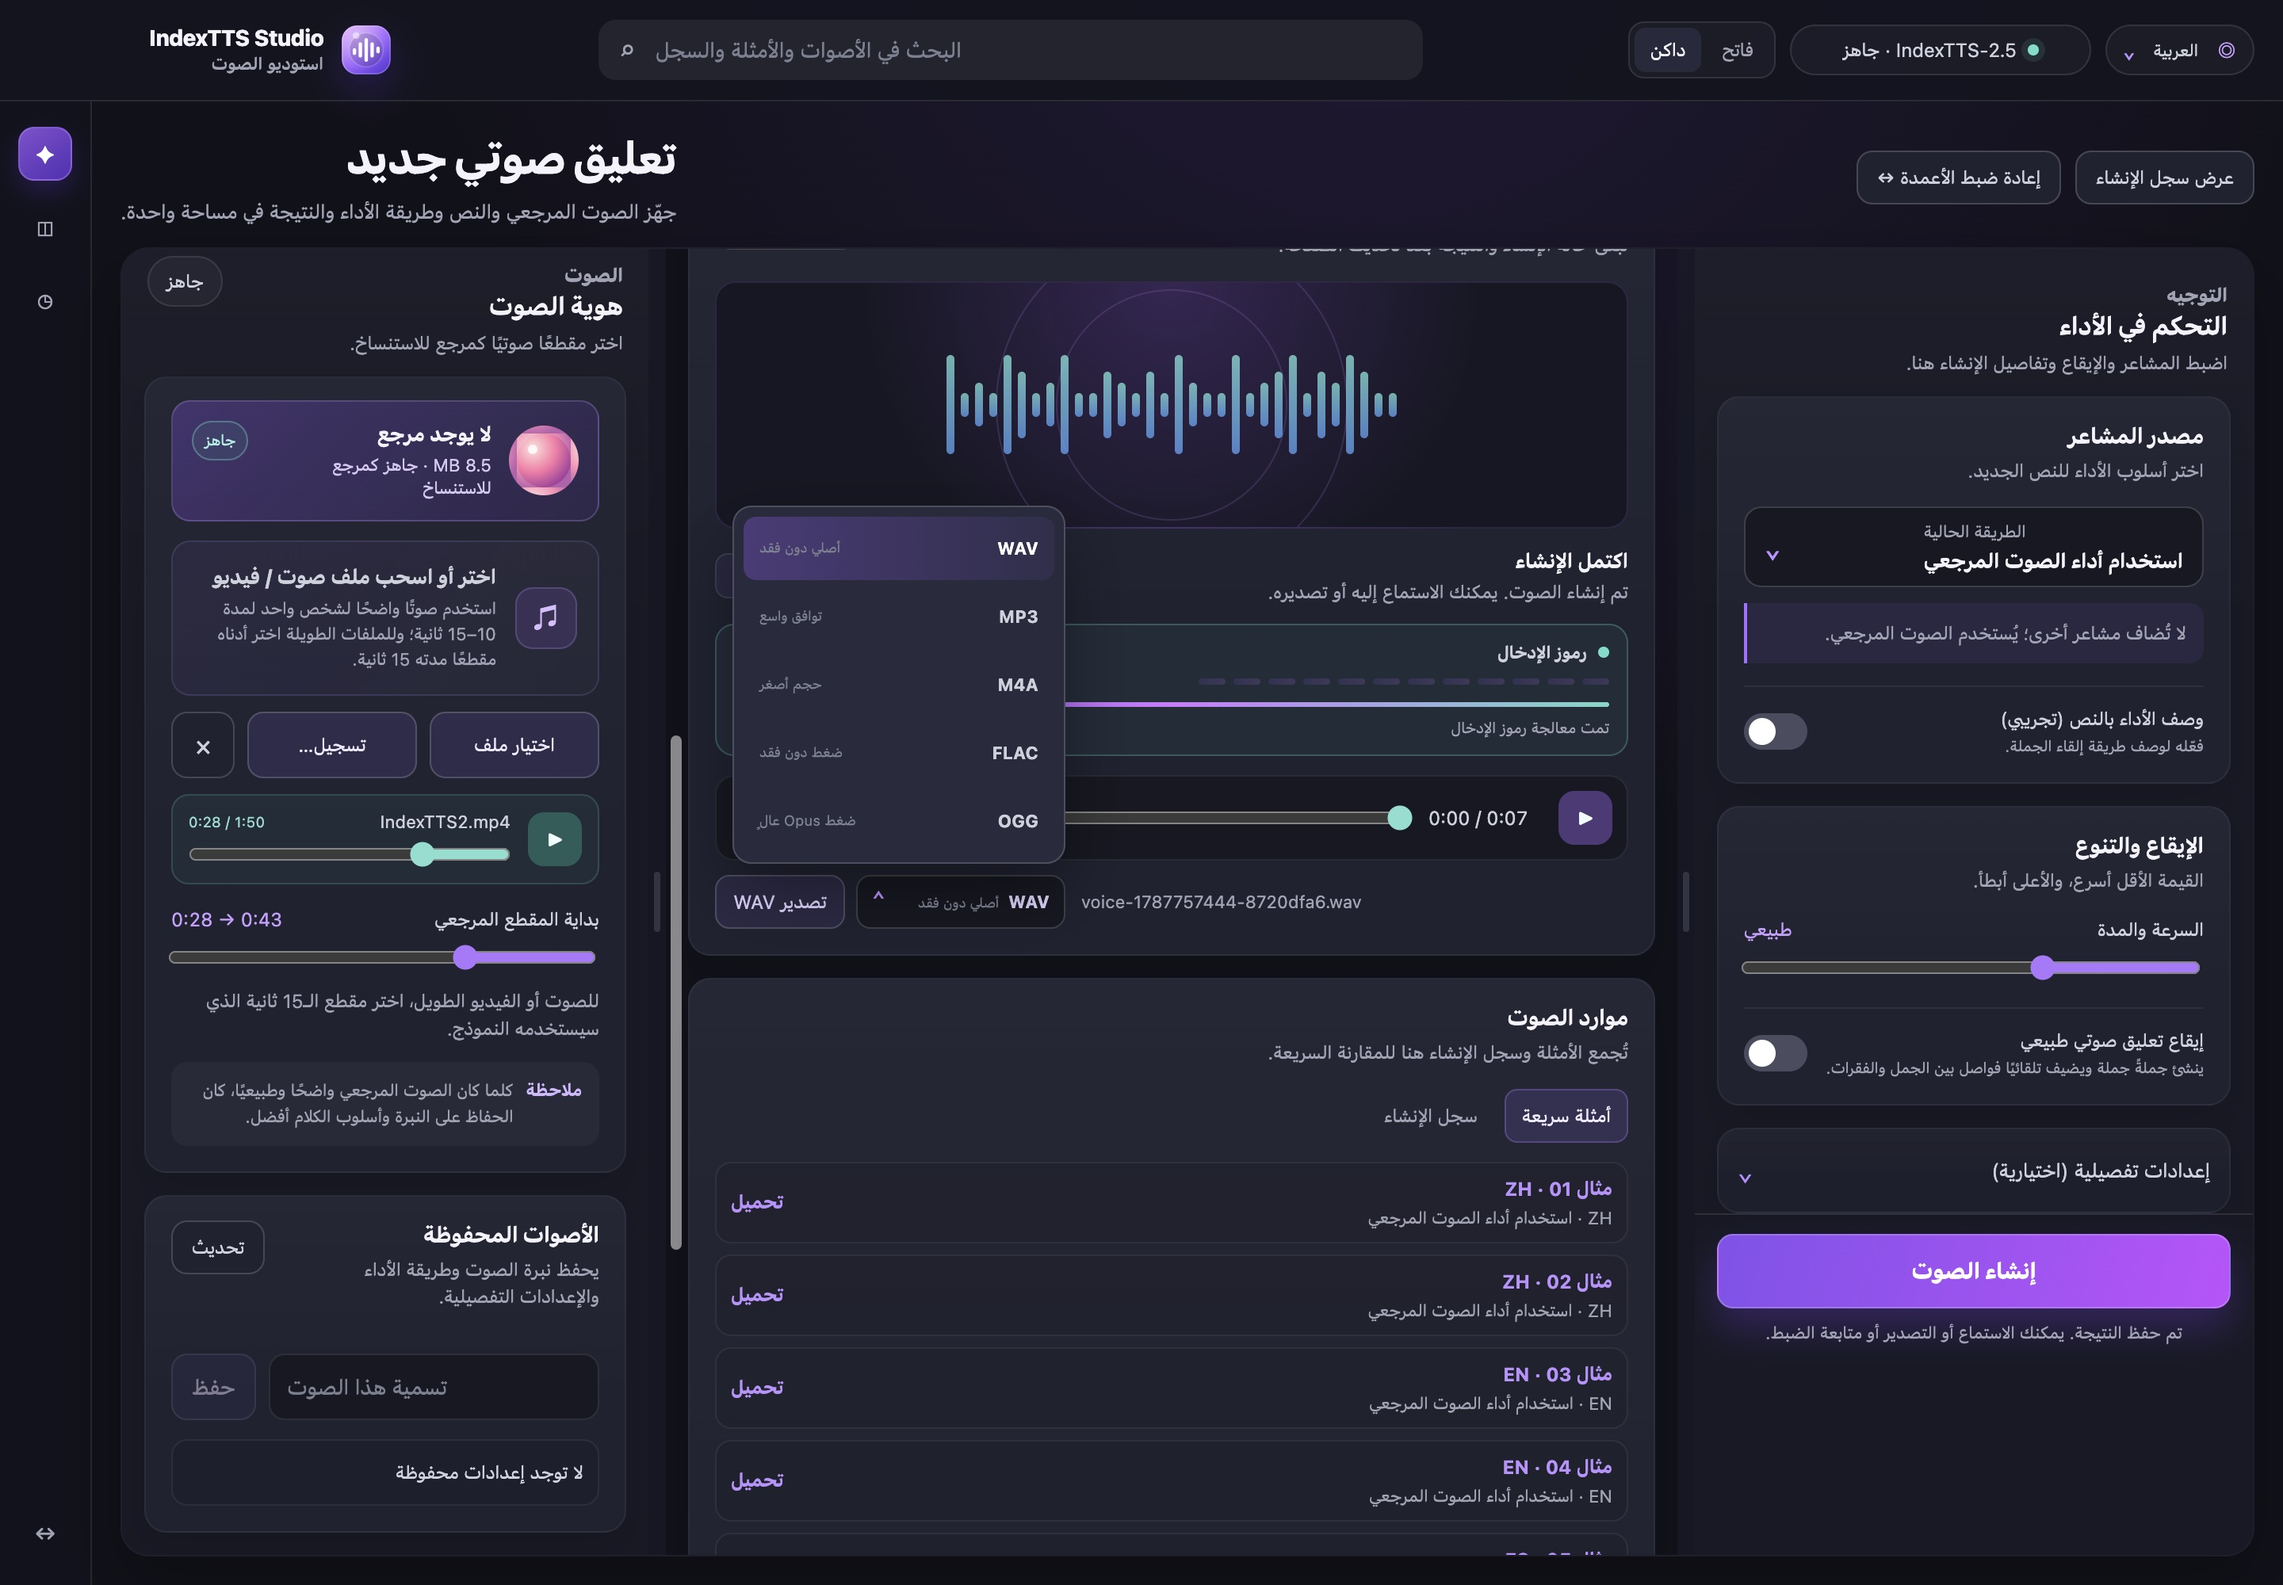
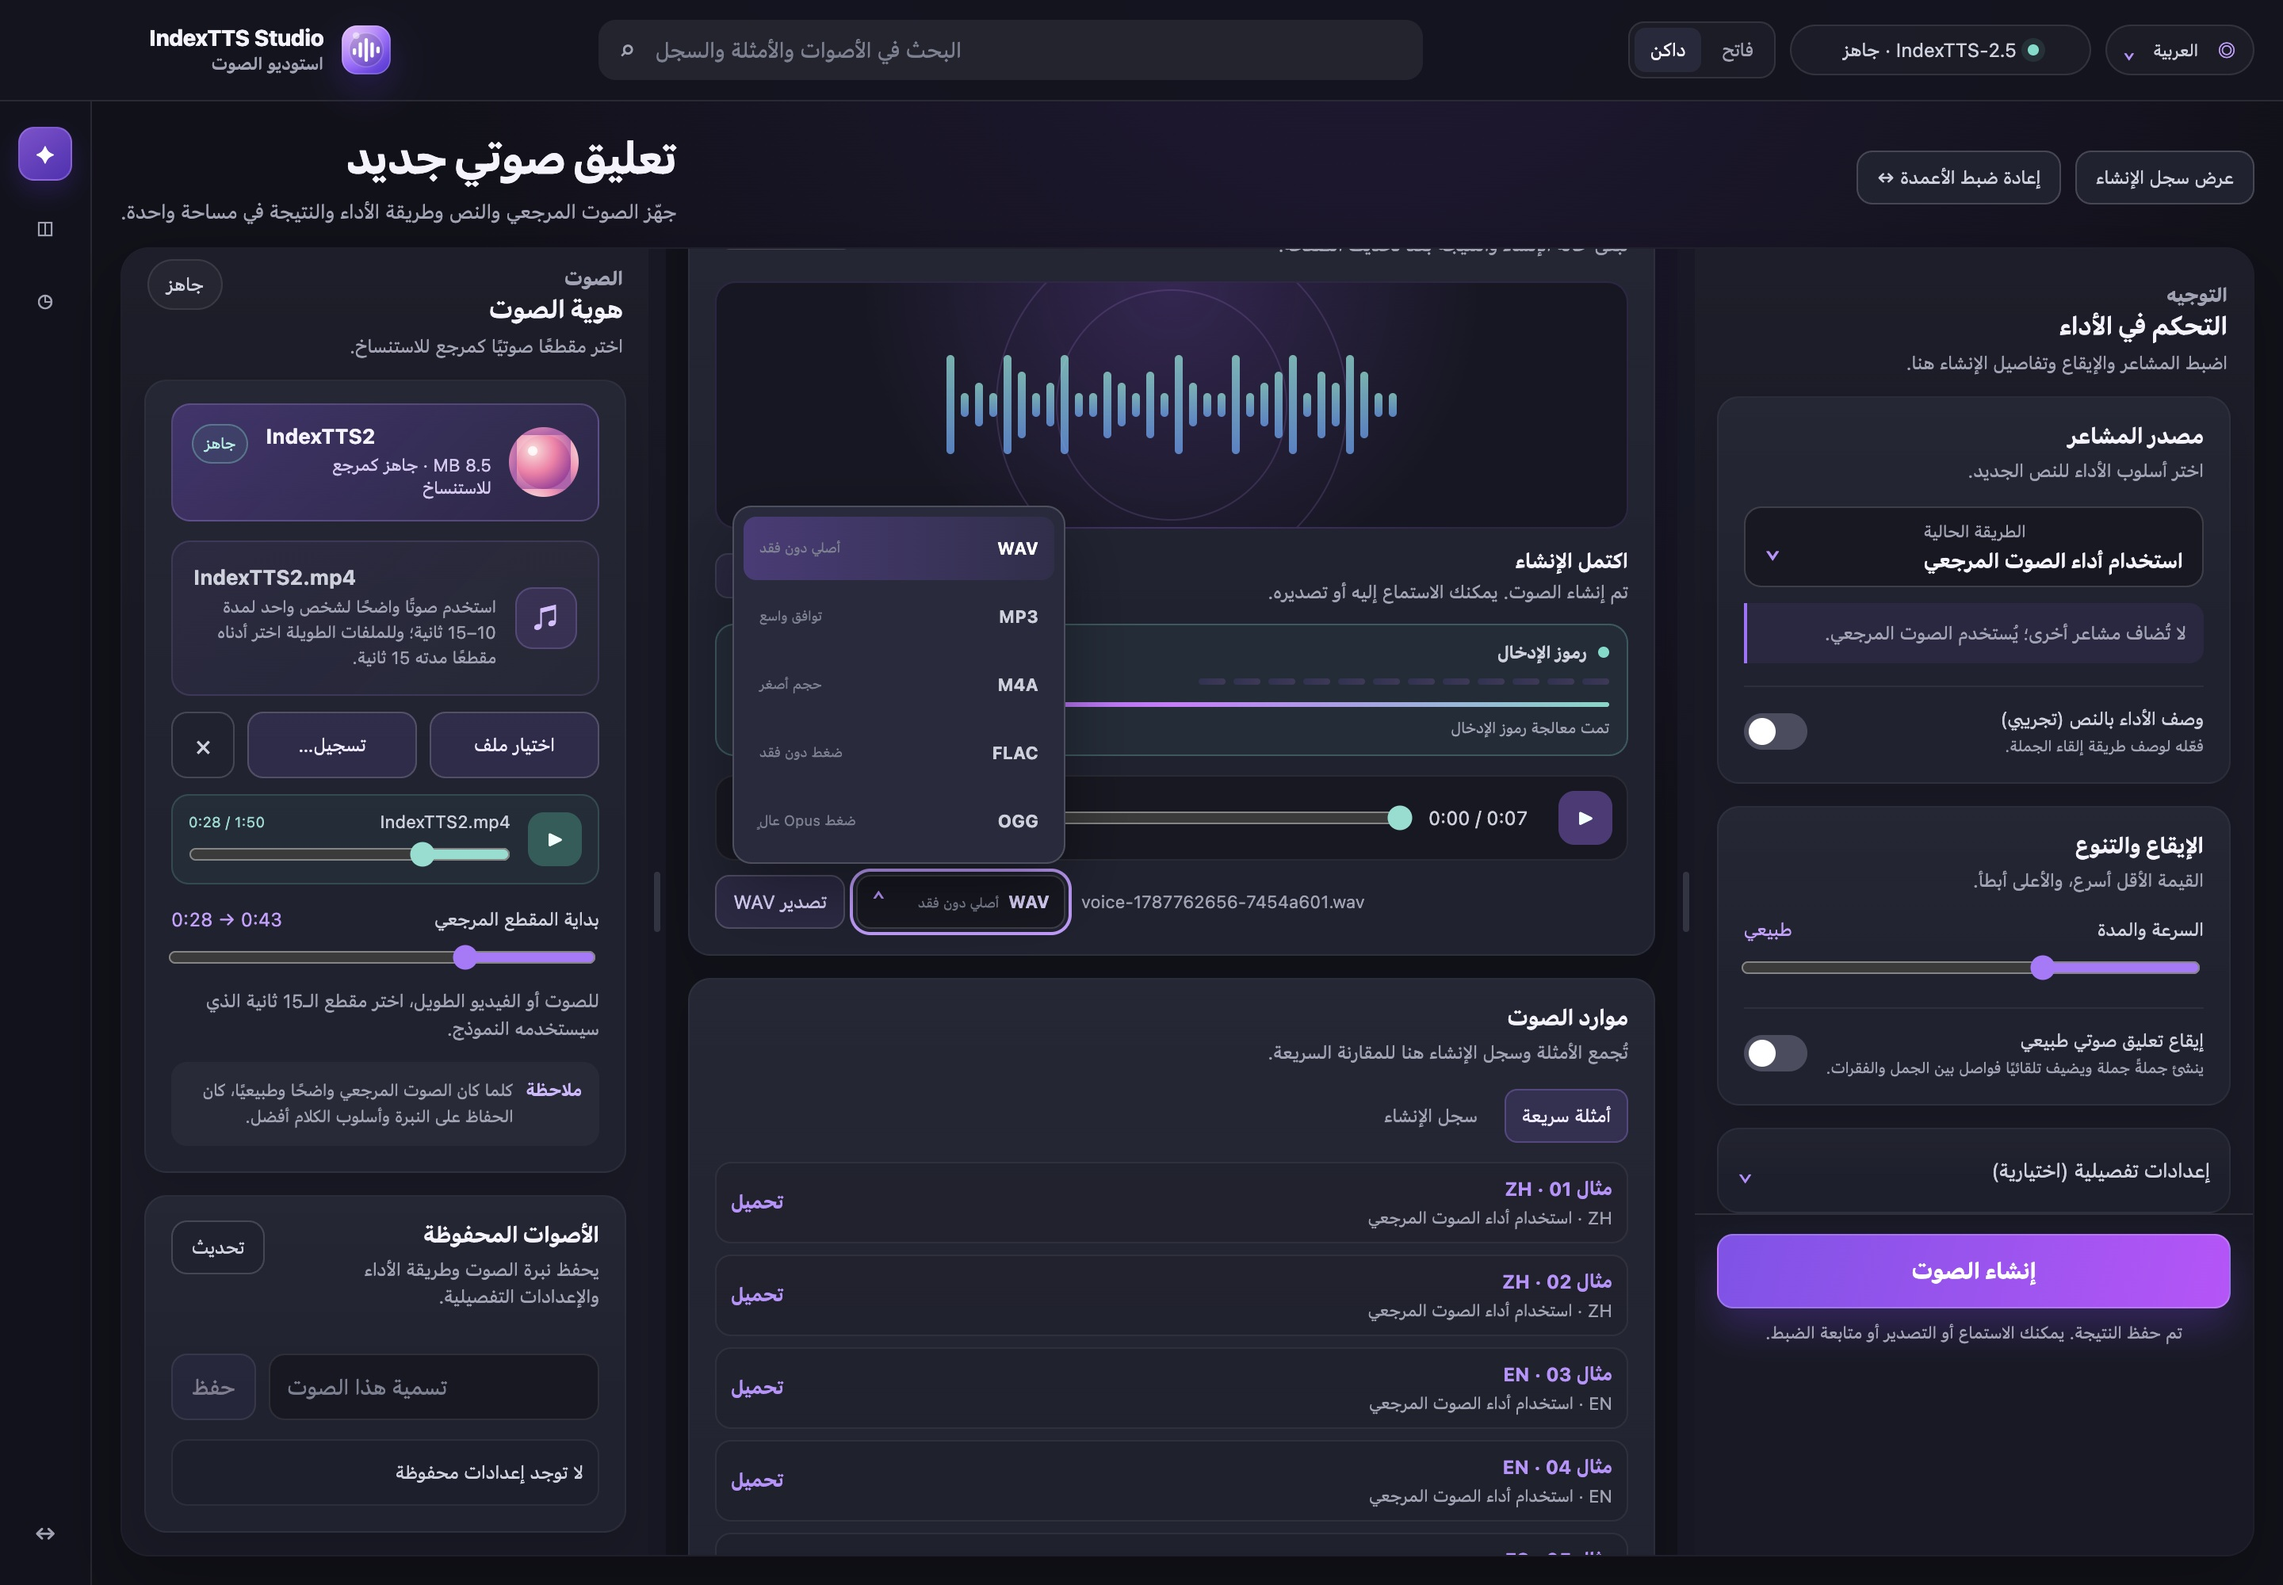
fix: preserve file names across language changes

diff --git a/studio/index.html b/studio/index.html
@@ -3786,6 +3786,14 @@
       const trRuntime = (value) => uiI18n.runtime(value);
       const uiText = (idOrElement, source, vars) =>
         uiI18n.setText(idOrElement, source, vars);
+      const uiRawText = (idOrElement, value) => {
+        const element =
+          typeof idOrElement === "string" ? $(idOrElement) : idOrElement;
+        if (!element) return;
+        delete element.dataset.i18nKey;
+        delete element.dataset.i18nVars;
+        element.textContent = value;
+      };
       function readStoredValue(key, fallback = "") {
         try {
           return localStorage.getItem(key) ?? fallback;
@@ -4214,14 +4222,16 @@
         source.src = state.sourceUrl;
         source.load();
         $("source-preview").hidden = false;
-        $("source-label").textContent = file.name;
-        $("voice-file-name").textContent = file.name;
-        $("voice-name").textContent = file.name.replace(/\.[^.]+$/, "");
+        uiRawText("source-label", file.name);
+        uiRawText("voice-file-name", file.name);
+        uiRawText("voice-name", file.name.replace(/\.[^.]+$/, ""));
         ["voice-name", "voice-file-name", "source-label"].forEach(
           (id) => ($(id).title = file.name),
         );
-        $("voice-meta").textContent =
-          formatBytes(file.size) + " · " + tr("已准备作为声音克隆参考");
+        uiRawText(
+          "voice-meta",
+          formatBytes(file.size) + " · " + tr("已准备作为声音克隆参考"),
+        );
         uiText("voice-state", "已准备");
         $("voice-state").classList.add("ready");
         updateWorkflow();
@@ -4270,9 +4280,9 @@
       function setEmotionFile(file, keepInput) {
         state.emotionFile = file || null;
         if (!keepInput) $("emotion-file").value = "";
-        $("emotion-file-label").textContent = state.emotionFile
-          ? state.emotionFile.name
-          : tr("可选");
+        if (state.emotionFile)
+          uiRawText("emotion-file-label", state.emotionFile.name);
+        else uiText("emotion-file-label", "可选");
         $("emotion-file-label").title = state.emotionFile?.name || "";
         $("remove-emotion-file").disabled = !state.emotionFile;
       }
@@ -4493,7 +4503,7 @@
         $("choose-voice").disabled = true;
         $("remove-voice").disabled = true;
         $("voice-file").disabled = true;
-        $("recording-device-name").textContent = deviceName;
+        uiRawText("recording-device-name", deviceName);
         $("recording-session").hidden = false;
         state.recordingStartedAt = Date.now();
         const updateClock = () => {
@@ -5244,7 +5254,7 @@
         state.audioFilename = name;
         outputAudio.src = url;
         outputAudio.load();
-        $("result-name").textContent = name;
+        uiRawText("result-name", name);
         $("audio-player").classList.remove("disabled");
         $("result-empty").hidden = true;
         updateActions();

diff --git a/tests/test_studio_contract.py b/tests/test_studio_contract.py
@@ -181,6 +181,19 @@ def test_custom_ui_covers_upstream_webui_controls() -> None:
     )
     assert re.search(r'id="result-name"[^>]*dir="auto"', ui)
     assert 'c.dir = "ltr"' in ui
+    assert "const uiRawText" in ui
+    assert all(
+        re.search(rf'uiRawText\(\s*"{element_id}"', ui)
+        for element_id in (
+            "source-label",
+            "voice-file-name",
+            "voice-name",
+            "voice-meta",
+            "emotion-file-label",
+            "recording-device-name",
+            "result-name",
+        )
+    )
     assert "暂停参考声音" in i18n and "取消静音" in i18n
     assert '$("emotion-mode").value = enabled ? "3" : "0"' in ui
     assert 'if (enabled) $("emotion-text").focus()' in ui
